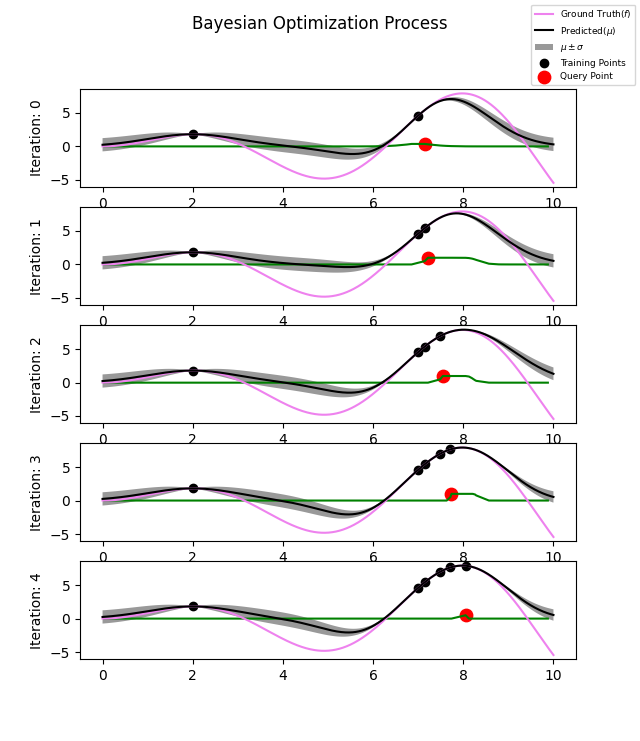
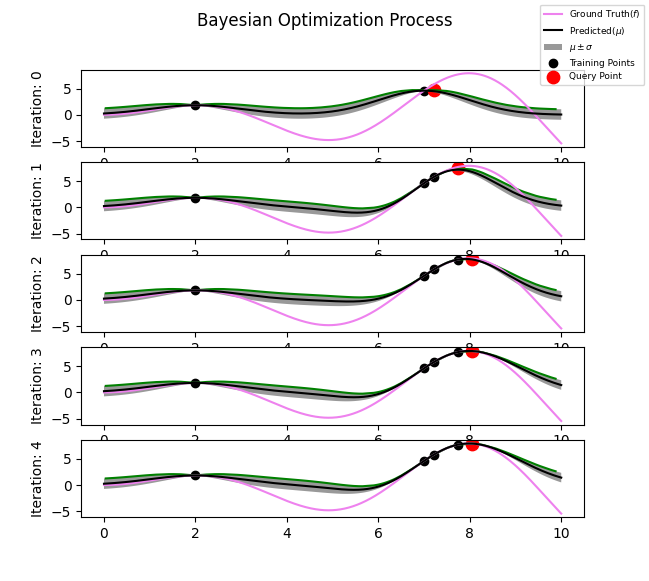
fix plot order bug

diff --git a/bayesian_optimization_example.py b/bayesian_optimization_example.py
@@ -45,7 +45,7 @@ def surrogate(model, x):
         return model.predict(x, return_std=True)
 
 
-def acquisition(x_labeled, y_labeled, x_bounds, model, axs, n_iter, nb_axs, method='PI', epsilon=0, alpha=1):
+def acquisition(x_labeled, y_labeled, x_bounds, model, axs, n_iter, nb_axs, method='UCB', epsilon=0, alpha=1):
     """
     采集函数
     :param x_labeled: 训练集对应的x
@@ -93,7 +93,7 @@ def acquisition(x_labeled, y_labeled, x_bounds, model, axs, n_iter, nb_axs, meth
     return acquisition_score
 
 
-def opt_acquisition(x_labeled, y_labeled, model, x_bounds, axs, nb_iter, nb_axs, method='PI', epsilon=0, alpha=1):
+def opt_acquisition(x_labeled, y_labeled, model, x_bounds, axs, nb_iter, nb_axs, method='UCB', epsilon=0, alpha=1):
     """
     得到采集函数达到最大值对应的点
     :param x_labeled: 训练集对应的x
@@ -196,6 +196,8 @@ def bayesian_optimization_example():
         print('[iter={}] Query_x={}, Predicted_f={}, Ground_Truth_f={}'.format(i, round(query_x, 3),
                                                                                round(predicted_f, 3),
                                                                                round(ground_truth_f, 3)))
+        # 画出每次优化对应的图
+        plot(gp_model, x, y_true, axs, n_iter, nb_axs=i)
 
         # 将该点加入已知的数据集中
         x_labeled = np.vstack((x_labeled, [[query_x]]))
@@ -205,9 +207,6 @@ def bayesian_optimization_example():
 
         # 更新高斯回归模型
         gp_model.fit(x_labeled, y_labeled)
-
-        # 画出每次优化对应的图
-        plot(gp_model, x, y_true, axs, n_iter, nb_axs=i)
 
     fig.suptitle('Bayesian Optimization Process')
     handles, labels = axs[n_iter - 1].get_legend_handles_labels()
